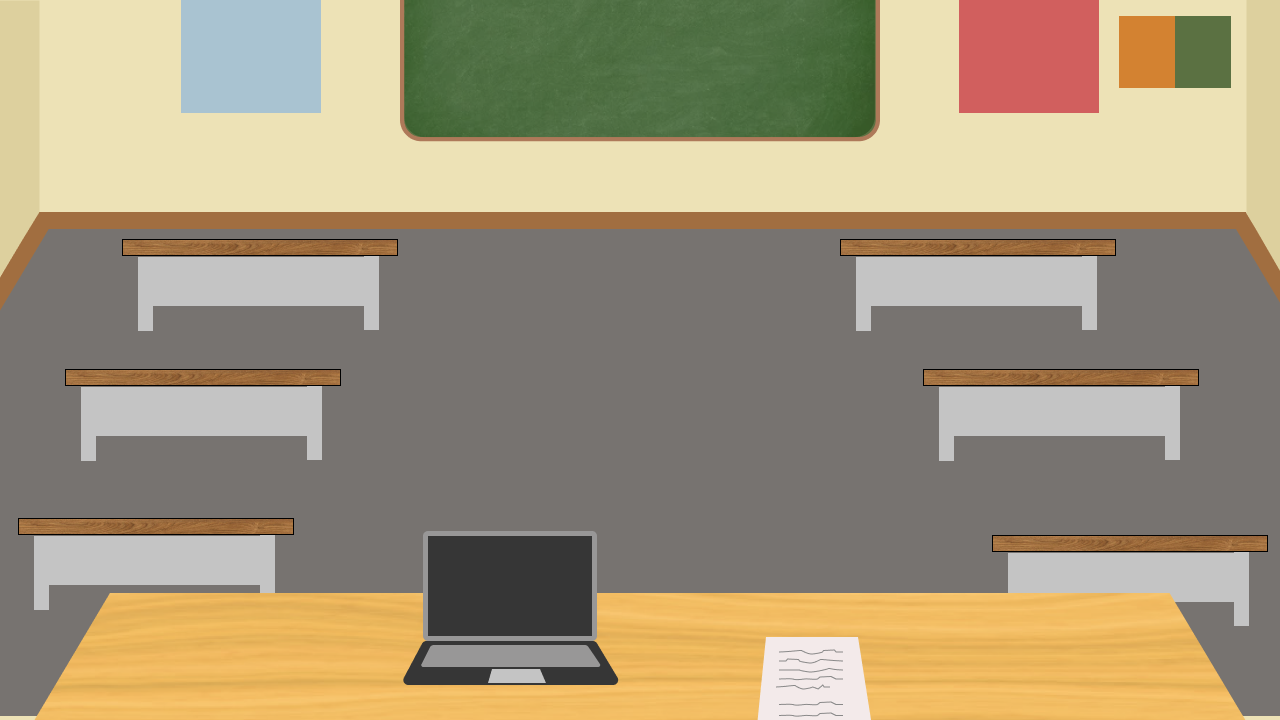
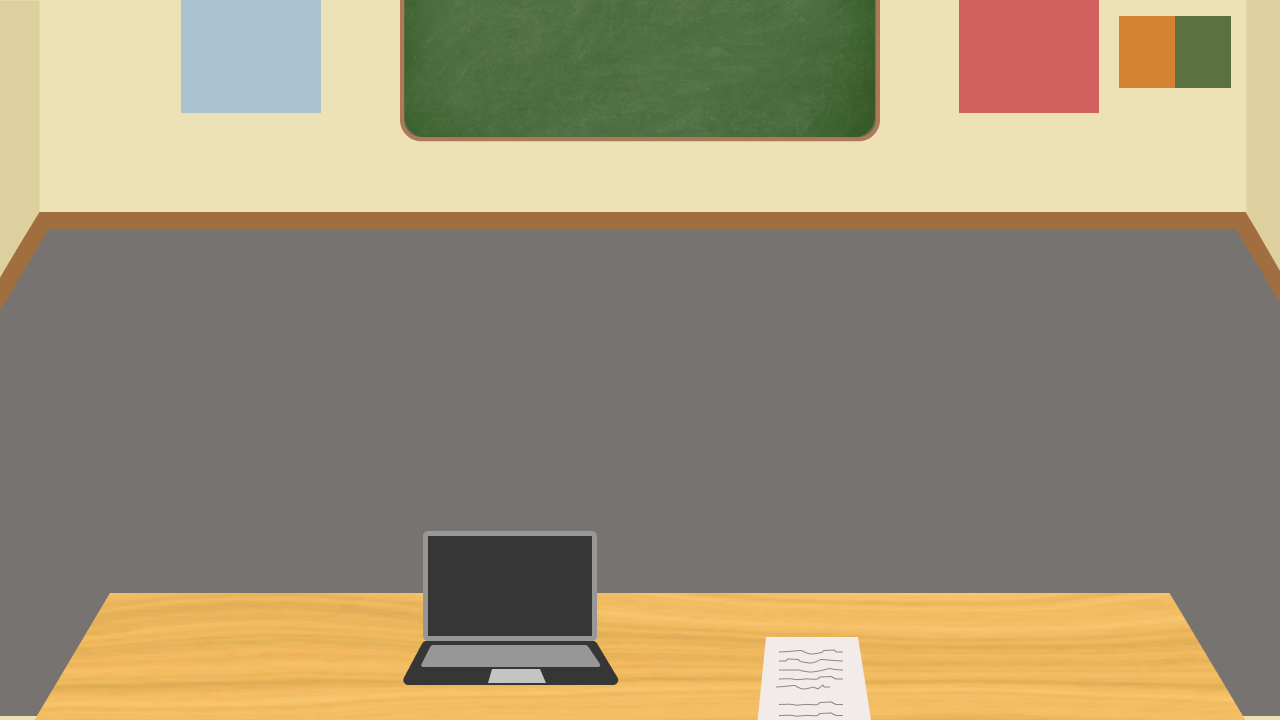
added sprite to game

diff --git a/src/sketch.js b/src/sketch.js
@@ -6,14 +6,15 @@ let studentsArr;
 
 let phaseNum;
 
-let bg;
+let bg, desk;
 
 let timerValue, timerValueMinutes;
 
 let gameCanvas;
 
 function preload() {
-  bg = loadImage("./img/PLACEHOLDER_bg.png");
+  bg = loadImage("./img/bg.png");
+  desk = loadImage("./img/desk.png");
 }
 
 function setup() {
@@ -65,8 +66,9 @@ function setup() {
 }
 
 function draw() {
-  //console.log(mouseX + ", " + mouseY);
+  console.log(mouseX + ", " + mouseY);
 
+  imageMode(CORNER);
   background(255);
   image(bg, 0, 0);
 
@@ -81,6 +83,9 @@ function draw() {
     }
 
   });
+
+  imageMode(CORNER);
+  image(desk, 5, 531);
 
   timer();
   endGame();
@@ -145,10 +150,10 @@ function mousePressed() {
     }
 
     if (
-      mouseX > 348 &&
-      mouseY > 52 &&
-      mouseX < 898 &&
-      mouseY < 402 &&
+      mouseX > 459 &&
+      mouseY > 236 &&
+      mouseX < 743 &&
+      mouseY < 495 &&
       stud.questionActive
     ) {
       stud.questionActive = false;

diff --git a/src/students/student.js b/src/students/student.js
@@ -8,21 +8,24 @@ class Student{
         this.calledTeacher = false;
         this.questionActive = false;
 
+        this.questionMark = loadImage("./img/question.png");
+        this.questionField = loadImage("./img/questionField.png");
+
         this.intervalId;
 
     }
 
     paint(){
-        fill(0);
-        circle(this.posX, this.posY, 20);
+
     }
 
     callTeacher(){
 
         if(this.calledTeacher){
 
-            fill(0);
-            rect(this.posX - 150, this.posY - 75, 150, 50);
+            imageMode(CENTER);
+            image(this.questionMark, this.posX - 100, this.posY - 75);
+
         }
 
     }
@@ -37,9 +40,11 @@ class Student{
 
     showProblem(){
 
-        fill(0);
-        rect(348, 52, 550, 350);
-        console.log("nomasss")
+        //fill(0);
+        //rect(348, 52, 550, 350);
+
+        imageMode(CENTER);
+        image(this.questionField, 608, 367);
 
     }
 

diff --git a/src/students/student1.js b/src/students/student1.js
@@ -1,3 +1,18 @@
 class Student1 extends Student{
+
+    constructor(posX, posY){
+
+        super(posX, posY);
+
+        this.sprite = loadImage("./img/student1.png");
+
+    }
+
+    paint(){
+
+        imageMode(CENTER);
+        image(this.sprite, this.posX, this.posY);
+
+    }
     
 }

diff --git a/src/students/student3.js b/src/students/student3.js
@@ -1,3 +1,18 @@
 class Student3 extends Student{
 
+        constructor(posX, posY){
+
+        super(posX, posY);
+
+        this.sprite = loadImage("./img/student3.png");
+
+    }
+
+    paint(){
+
+        imageMode(CENTER);
+        image(this.sprite, this.posX, this.posY);
+
+    }
+
 }

diff --git a/src/students/student2.js b/src/students/student2.js
@@ -1,3 +1,18 @@
 class Student2 extends Student{
 
+    constructor(posX, posY){
+
+        super(posX, posY);
+
+        this.sprite = loadImage("./img/student2.png");
+
+    }
+
+    paint(){
+
+        imageMode(CENTER);
+        image(this.sprite, this.posX, this.posY);
+
+    }
+
 }

diff --git a/src/students/student4.js b/src/students/student4.js
@@ -1,3 +1,18 @@
 class Student4 extends Student{
 
+    constructor(posX, posY){
+
+        super(posX, posY);
+
+        this.sprite = loadImage("./img/student4.png");
+
+    }
+
+    paint(){
+
+        imageMode(CENTER);
+        image(this.sprite, this.posX, this.posY);
+
+    }
+
 }

diff --git a/src/students/student5.js b/src/students/student5.js
@@ -1,3 +1,18 @@
 class Student5 extends Student{
 
+    constructor(posX, posY){
+
+        super(posX, posY);
+
+        this.sprite = loadImage("./img/student5.png");
+
+    }
+
+    paint(){
+
+        imageMode(CENTER);
+        image(this.sprite, this.posX, this.posY);
+
+    }
+
 }

diff --git a/src/students/student6.js b/src/students/student6.js
@@ -1,3 +1,18 @@
 class Student6 extends Student{
 
+    constructor(posX, posY){
+
+        super(posX, posY);
+
+        this.sprite = loadImage("./img/student6.png");
+
+    }
+
+    paint(){
+
+        imageMode(CENTER);
+        image(this.sprite, this.posX, this.posY);
+
+    }
+
 }
